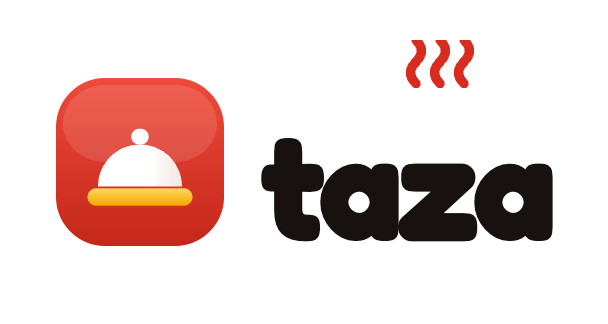
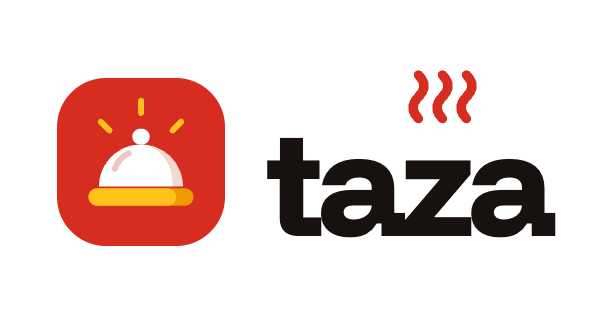
Refresh showcase: Funnel type, redrawn food scenes, flat bell, yellow Ready ticket

Changed region(s): [[0.4062, 0.4012, 0.9375, 0.7716], [0.0938, 0.216, 0.375, 0.6481], [0.6562, 0.1235, 0.7812, 0.4012]]

diff --git a/README.md b/README.md
@@ -9,7 +9,7 @@
 
 <p align="center">Paused, not deployed. Runs end to end on a local stack. The source is private.</p>
 
-<img src="assets/screens/customer-trio.webp" alt="A customer's order page in three states: Got your order with a coffee grinder, Brewing it now with an espresso machine pouring, and Ready to collect with the number in red and a steaming cup">
+<img src="assets/screens/customer-trio.webp" alt="A customer's order page in three states: Got your order with a coffee grinder, Brewing it now with an espresso machine pouring, and Ready to collect, where the top of the page turns into a big yellow ticket with the number and a steaming cup">
 
 ## What it does
 
@@ -17,6 +17,7 @@ Taza is the first module of a restaurant operating system: **Pickup Lite**.
 
 - **Customers follow their order live.** They scan a QR, open a link or tap an NFC tag and get a big queue number, a scene of their food being made and a progress track that fills: Received, Making, Ready, Collected. The page can buzz them when it's ready, and it keeps working through a bad connection.
 - **Each business type has its own scenes.** A burger place shows a patty on the grill, then the burger assembling. A shawarma place shows the spit being carved, then the wrap. Coffee, bubble tea, bakery, noodles and rice all have their own loops.
+- **Ready is the big moment.** The top of the page turns into a yellow ticket you can read at arm's length, the same yellow the pickup TV uses. The screen stays awake while the order is on its way, because iPhones get no notifications from a web page.
 - **Some places don't show the steps.** They can switch to "just when it's ready". Customers then see honest time since ordering and a calm ring, never a fake progress bar.
 - **Staff can take orders by voice.** In capture mode the counter says the order out loud, Taza lists it against the menu, and staff tap Ready when it's done. Orders get a Taza number or keep the business's own POS number.
 - **The business builds its own menu.** Photos, options ("no lettuce"), combos with a chosen drink, and discounted add-ons suggested after an item is added, if the owner switches that on.
@@ -26,9 +27,9 @@ Taza is the first module of a restaurant operating system: **Pickup Lite**.
 
 | Ready-only mode, then collected | Dark surface |
 |---|---|
-| <img src="assets/screens/customer-readyonly-collected.webp" alt="Left: We're on it, usually about 8 min, with a ring and time since ordering over a grill scene. Right: Enjoy, collected, with a check badge on the cup"> | <img src="assets/screens/customer-ink.webp" alt="The same page on a near-black surface: Carving it now over a shawarma spit, then Ready to collect with the wrap"> |
+| <img src="assets/screens/customer-readyonly-collected.webp" alt="Left: We're on it, usually about 8 min, with a ring and time since ordering over a grill scene. Right: Enjoy, collected, with a check badge on the cup"> | <img src="assets/screens/customer-ink.webp" alt="The same page on a near-black surface: Carving it now over a shawarma spit, then Ready to collect with the wrap on the yellow ticket"> |
 
-<p align="center"><img src="assets/gifs/customer-tour.gif" width="300" alt="Recorded tour: an order goes from Got your order to On the grill now to Ready to collect, the burger assembling and the number turning red"></p>
+<p align="center"><img src="assets/gifs/customer-tour.gif" width="300" alt="Recorded tour: an order goes from Got your order to On the grill now to Ready to collect, the burger stacking and the page turning yellow"></p>
 
 ## Every kind of counter
 
@@ -53,19 +54,20 @@ Taza is the first module of a restaurant operating system: **Pickup Lite**.
 - **Backend:** .NET 10, ASP.NET Core minimal APIs as a modular monolith (organization, identity, entitlements, catalog, ordering, tracking, branding, NFC, board, onboarding). EF Core 10 on PostgreSQL 17. SignalR for the kitchen board, the customer page and the pickup display.
 - **Correctness:** transactional outbox with a `FOR UPDATE SKIP LOCKED` dispatcher, idempotency keys on order creation, optimistic concurrency (two staff tapping the same order get a clear 409, not a 500). Combo and add-on prices are calculated on the server only.
 - **Security:** tenant filters from claims, hashed 128-bit tracking tokens that expire, cookie auth with a CSRF header, rate limits on login, public and NFC routes, image byte sniffing on uploads, and a WCAG contrast guard on brand colours.
-- **Web:** Vite + TypeScript with Preact behind `preact/compat`. The customer page ships **39.9 KB gzip** of JavaScript (budget 90 KB). Spring motion is written into CSS `linear()` curves, scenes are SVG and CSS, and motion respects reduced-motion settings.
+- **Web:** Vite + TypeScript with Preact behind `preact/compat`. The customer page ships **40.8 KB gzip** of JavaScript (budget 90 KB). Spring motion is written into CSS `linear()` curves, scenes are SVG and CSS, and motion respects reduced-motion settings.
 - **Tests (15 Nov 2026):** 57 unit, 16 integration against a real Postgres, 14 Playwright end-to-end on Chrome including axe accessibility checks, and 5 voice-parser tests. All passing.
 
 ## Status, honestly
 
 - Built and tested locally: setup, counter, voice capture, menu builder, kitchen board, customer page, NFC hand-off.
 - Not deployed. No businesses use it yet.
-- Open polish items: dark-surface button contrast, "just now" wording under a minute, more scenes (pizza, desserts, juice, fried chicken, rice plates, sandwiches).
+- The pickup TV gives Ready most of the screen, moves numbers that have waited over 5 minutes to a "ready a while ago" row instead of dropping them, and says the number out loud after the chime (English only so far).
+- Still to do: more scenes (pizza, desserts, juice, fried chicken, sandwiches), Bahasa Melayu and Chinese, and letting staff put any number on the TV (for example rider codes).
 - Voice capture uses the browser's speech service and needs testing on real counter devices.
 
 ## Brand
 
-A counter service bell for the symbol, the "it's ready" sound in any kitchen, and a soft "taza" wordmark with steam rising off the z. Red `#D62D20` and yellow `#FFC21A`, set in Fredoka.
+A counter service bell for the symbol, the "it's ready" sound in any kitchen, and a "taza" wordmark with steam rising off the z. Red `#D62D20` and yellow `#FFC21A`. Titles and numbers are set in Funnel Display, everything else in Funnel Sans. The food art uses one drawing style everywhere: a warm ink outline, flat colours and one shaded side, with no faces.
 
 ---
 
